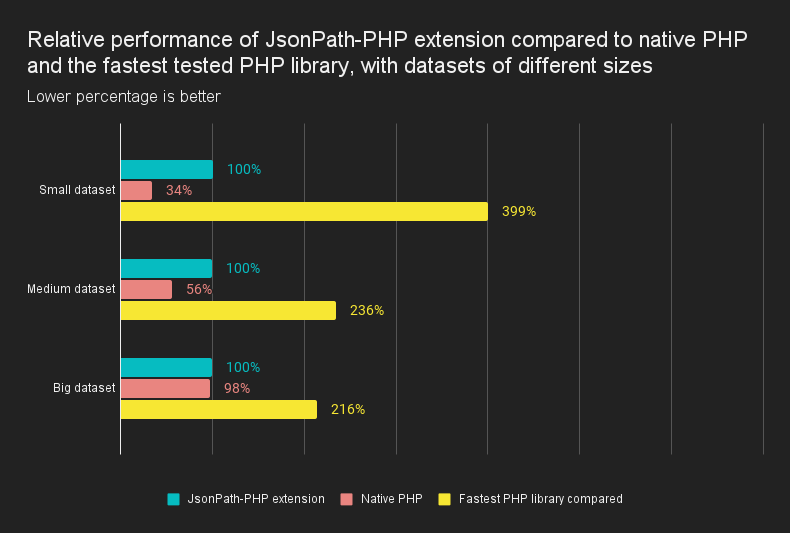
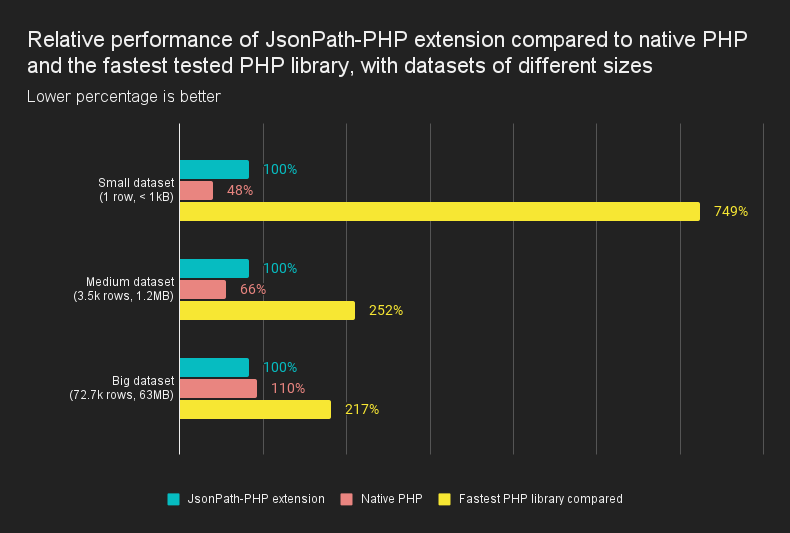
Update benchmark chart with benchmarks from latest software versions and run in PHP 8.1

diff --git a/README.md b/README.md
@@ -296,6 +296,8 @@ Also see the [examples](#examples).
 
 ![Chart showing a performance comparison between JsonPath-PHP, native PHP (JsonPath-PHP sometimes faster, sometimes slower), and the fastest tested PHP library (JsonPath-PHP always faster)](benchmark.png)
 
+The numbers in the chart were obtained when running the benchmark suite in PHP 8.1 with OPcache and JIT enabled.
+
 If you want to run benchmarks yourself, have a look at the [jsonpath-benchmark](https://github.com/supermetrics-public/jsonpath-benchmark) repo.
 
 ## License
